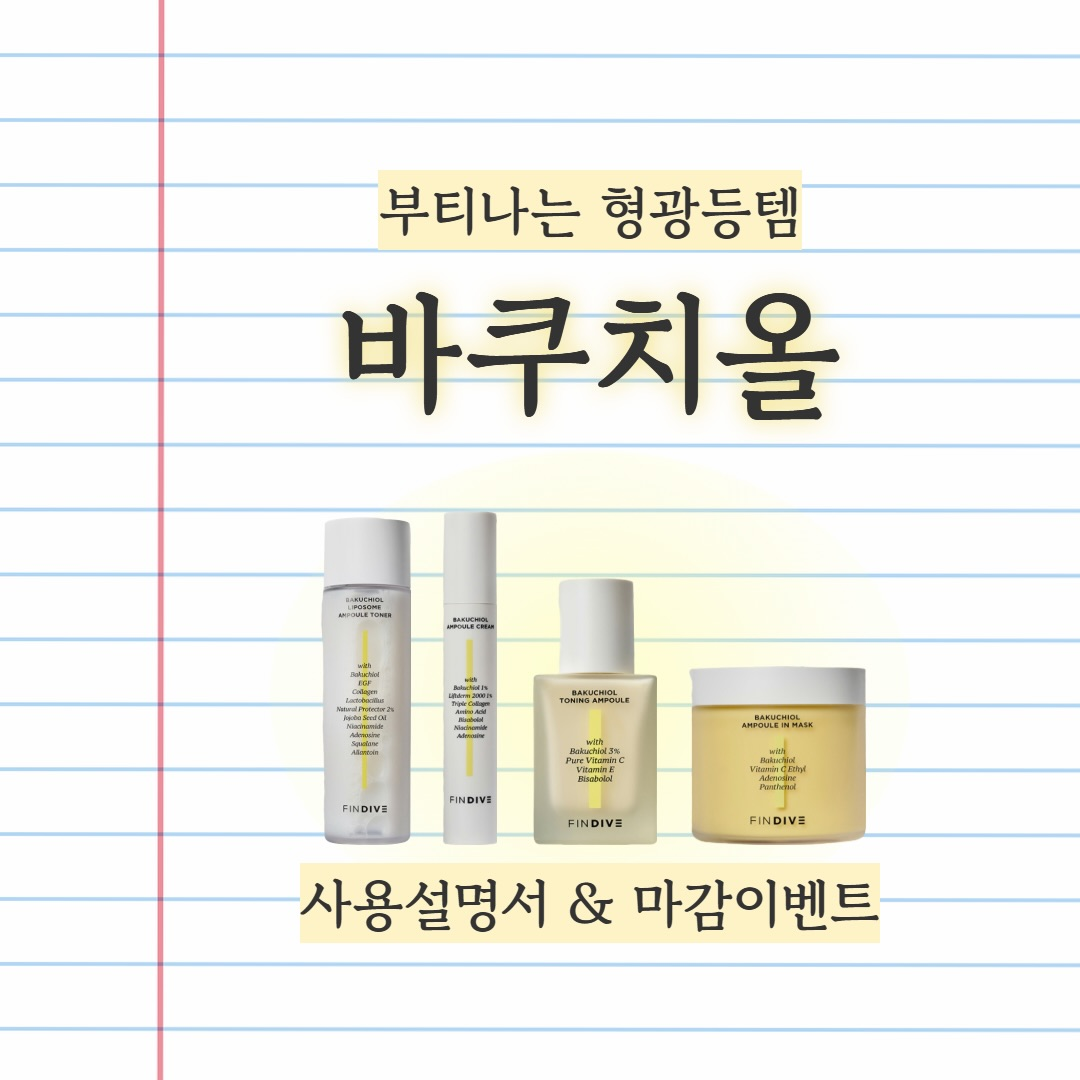
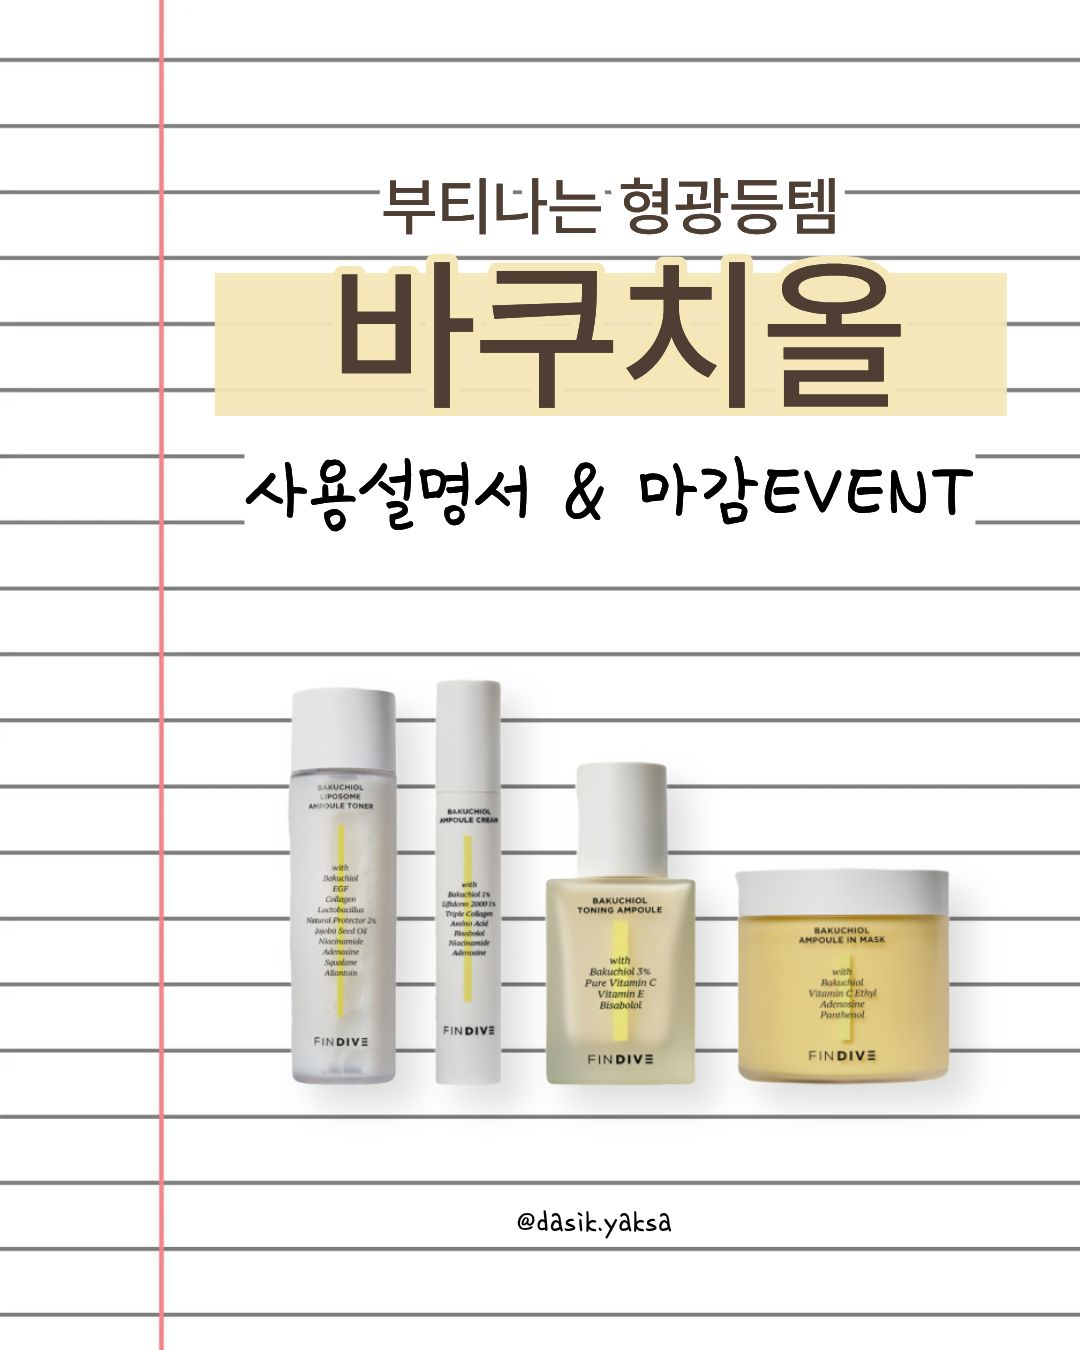
[자동] 바쿠치올 마감이벤트 링크·썸네일 업데이트

diff --git a/data.js b/data.js
@@ -385,7 +385,7 @@ const DATA = {
     {
       category: "화장품",
       items: [
-        { name: "바쿠치올",            tags: ["바쿠치올", "스킨케어", "노화"],  thumbnail: "images/products/prod_bakuchio.jpg",      link: "https://www.instagram.com/p/DU37-AgE9my/" },
+        { name: "바쿠치올",            tags: ["바쿠치올", "스킨케어", "노화"],  thumbnail: "images/products/prod_bakuchio.jpg",      link: "https://www.instagram.com/p/DY8SDrgDX77/" },
         { name: "팜트리 수분진정라인", tags: ["수분", "진정", "화장품"],        thumbnail: "images/products/prod_palmtree.jpg",      link: "https://www.instagram.com/p/DV0UeHOD9Ey/" },
         { name: "VT 리들샷",           tags: ["리들샷", "VT", "피부재생"],      thumbnail: "images/products/prod_ridleshot.jpg",     link: "https://www.instagram.com/p/DT4Ko2rjw_I/" }
       ]